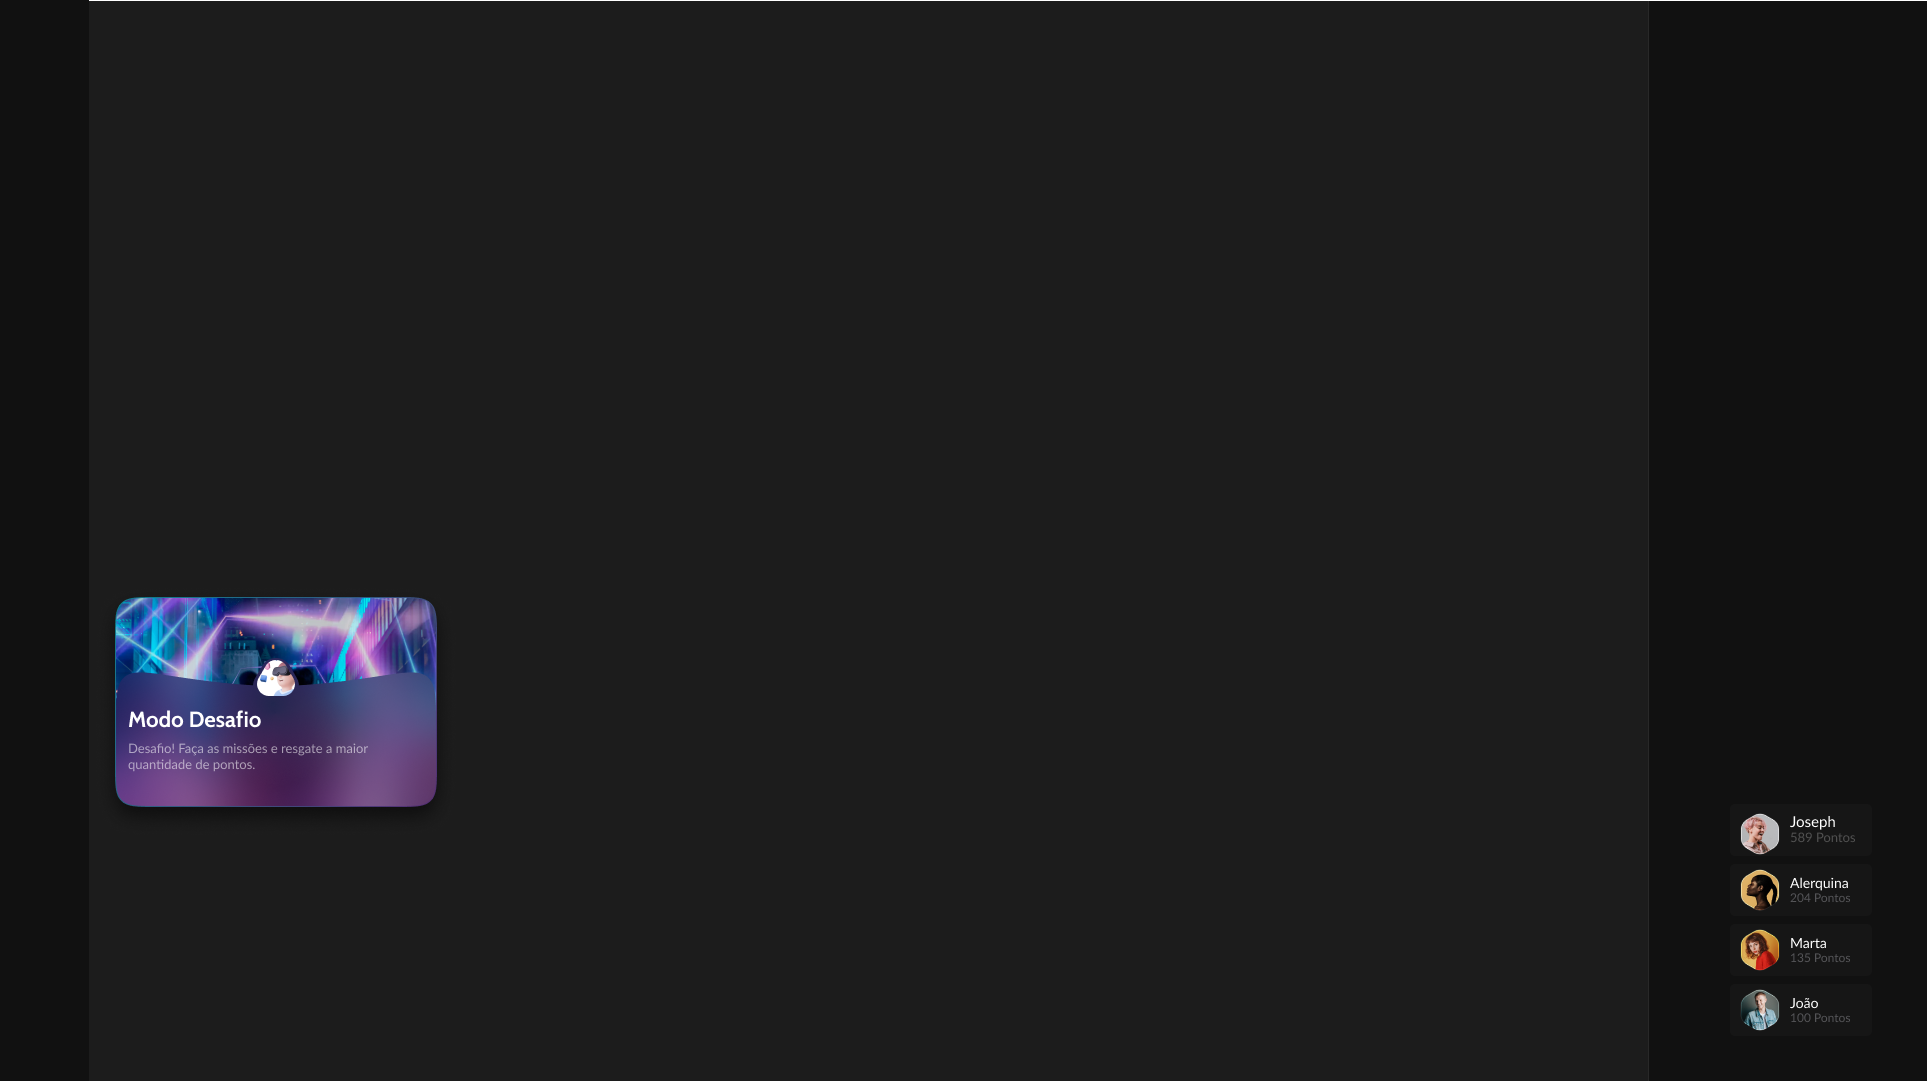
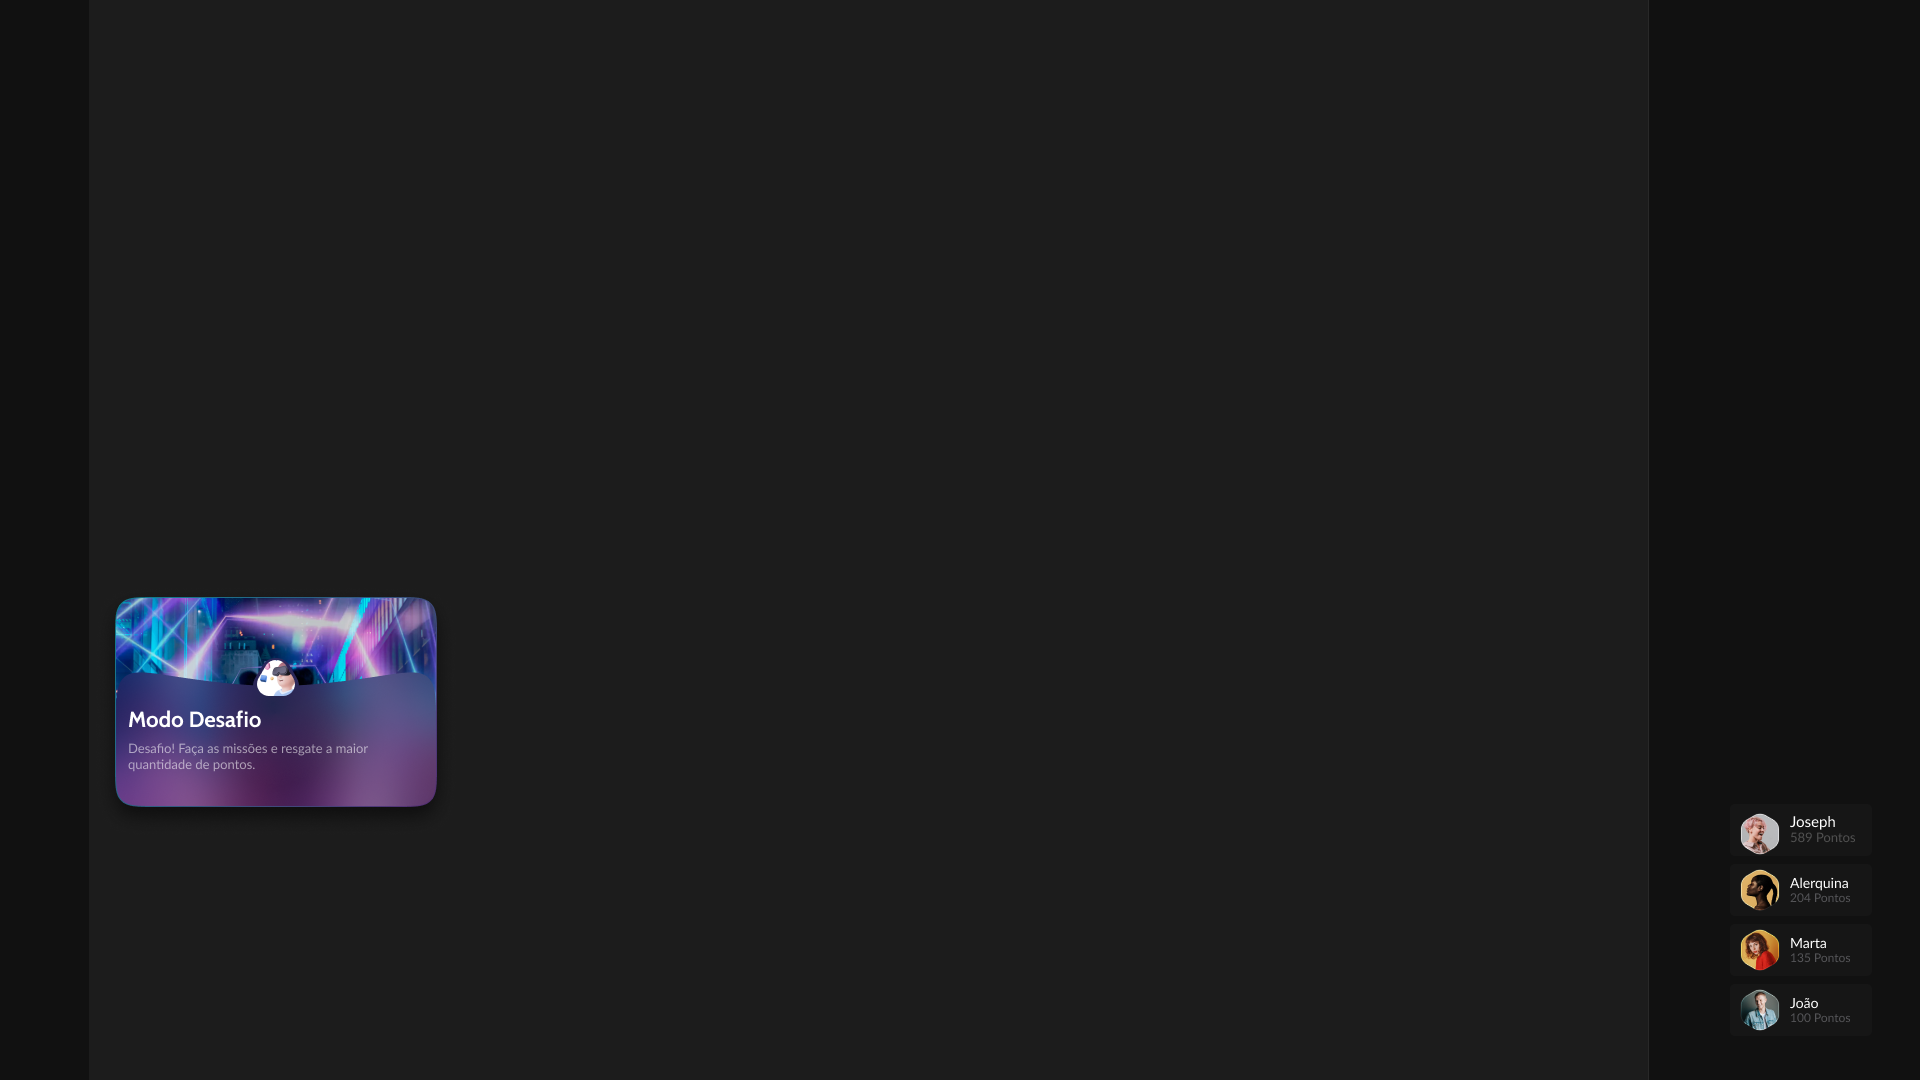
Atualização tela 1

Changed region(s): [[0.0625, 0.55, 0.2188, 0.7333], [0.9062, 0.7333, 0.9688, 0.9472], [0.0625, 0.55, 0.125, 0.6111]]

diff --git a/window.py b/window.py
@@ -21,11 +21,11 @@ canvas.place(x = 0, y = 0)
 
 background_img = PhotoImage(file = f"images/background.png")
 background = canvas.create_image(
-    963.5, 540.5,
+    960.0, 540.0,
     image=background_img)
 
 canvas.create_text(
-    1801.0, 265.0,
+    1800.0, 259.0,
     text = "Conecte ao Facebook",
     fill = "#ffffff",
     font = ("Cabin-Bold", int(15.0)))
@@ -64,9 +64,9 @@ b1 = Button(
     relief = "flat")
 
 b1.place(
-    x = 30, y = 1019,
-    width = 22,
-    height = 23)
+    x = 30, y = 1024,
+    width = 27,
+    height = 27)
 
 img2 = PhotoImage(file = f"images/img2.png")
 b2 = Button(
@@ -90,9 +90,9 @@ b3 = Button(
     relief = "flat")
 
 b3.place(
-    x = 115, y = 116,
-    width = 321,
-    height = 209)
+    x = 29, y = 22,
+    width = 28,
+    height = 28)
 
 img4 = PhotoImage(file = f"images/img4.png")
 b4 = Button(
@@ -103,9 +103,9 @@ b4 = Button(
     relief = "flat")
 
 b4.place(
-    x = 19, y = 12,
-    width = 48,
-    height = 48)
+    x = 116, y = 101,
+    width = 323,
+    height = 211)
 
 img5 = PhotoImage(file = f"images/img5.png")
 b5 = Button(
@@ -116,8 +116,8 @@ b5 = Button(
     relief = "flat")
 
 b5.place(
-    x = 1764, y = 104,
-    width = 74,
+    x = 1754, y = 103,
+    width = 86,
     height = 86)
 
 img6 = PhotoImage(file = f"images/img6.png")
